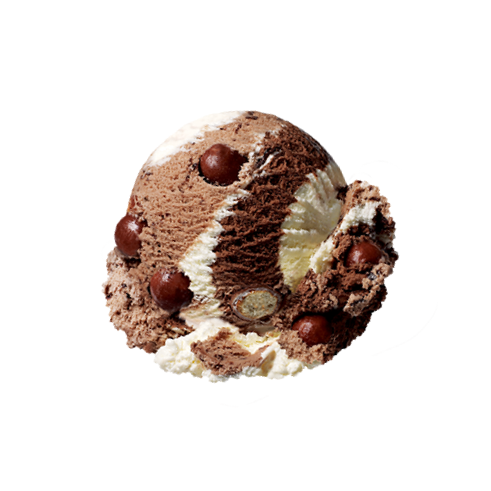
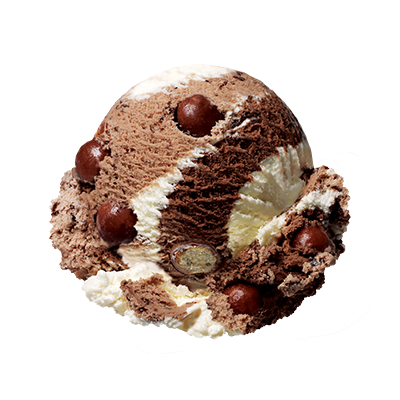
Add files via upload

diff --git a/js/products.js b/js/products.js
@@ -1,34 +1,31 @@
 function getData() {
-    // 여기에 여러분 깃허브 JSON 파일 경로(서버 데이터 주소)
+
     const DataURL = 'https://raw.githubusercontent.com/six6na/brBROWN/main/data.json';
     fetch(DataURL)
         .then(function (res) {
-            return res.json(); // JSON 객체 변환
+            return res.json();
         })
         .then(function (obj) {
-            // obj 동물데이터
+
             showProducts(obj);
             console.log(obj);
         });
 }
 
 function showProducts(obj) {
-    // 현재 페이지의 URL query 파라미터(매개변수)
+
     const query = location.search;
     console.log(query);
-    // ? URL query문을 object(변수)로 변경
+
     let params = new URLSearchParams(query).get('category');
 
-    // params == null 이면(시작 페이지 모든 제품 출력)
     if (params == null || params == 'all') {
         params = null;
     }
     console.log(params);
 
-    // 상품 데이터 출력
     obj.forEach(function (product, i) {
-        // 카테고리 구분 wireless | 무선헤드폰 | 유선헤드폰
-        // 요청한 params와 제품카테고리명이 일치하는 데이터만 출력
+
         let category = product.category;
         let name = product.name;
         let image = product.image;
@@ -45,12 +42,10 @@ function showProducts(obj) {
         </a>
       `
 
-        //카테고리 별로 보기
         if (params == product.category) {
             $('main #products').append(html);
         }
 
-        // 상품 전체보기
         if (params == null) {
             $('main #products').append(html);
             console.log(`i = `, i)

diff --git a/css/menu.css b/css/menu.css
@@ -42,7 +42,7 @@
 }
 
 .searchBox {
-    width: 1440px;
+    width: 90%;
     display: flex;
     align-items: center;
     justify-content: right;
@@ -84,7 +84,6 @@
 }
 
 .product {
-    /* outline: 1px solid red; */
     width: 500px;
     height: 580px;
     display: flex;
@@ -95,7 +94,6 @@
 }
 
 .bgImg {
-    /* outline: 1px solid red; */
     width: 300px;
     height: 300px;
     background: #573D3E;
@@ -113,10 +111,9 @@
 }
 
 .productImg {
-    /* outline: 1px solid blue; */
     position: absolute;
     z-index: 1;
-    top: 0;
+    top: 45px;
 }
 
 .name {

diff --git a/html/menu.html b/html/menu.html
@@ -29,7 +29,7 @@
             <h2>MENU</h2>
         </div>
         <section class="menuBtn">
-            <a href="../html/menu.html">icecream</a>
+            <a href="../html/menu.html" class="on">icecream</a>
             <a href="#">beverage</a>
             <a href="#">coffee</a>
             <a href="#">dessert</a>

diff --git a/css/style.css b/css/style.css
@@ -27,9 +27,7 @@ header {
     width: 100%;
     height: 120px;
     background: #573D3E;
-    /* padding: 10px 0; */
     text-align: center;
-    /* transform: translate(-50%); */
     transition: all .3s
 }
 
